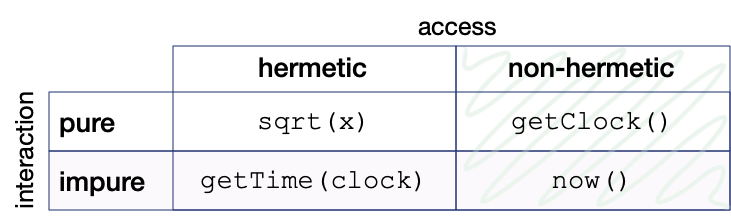
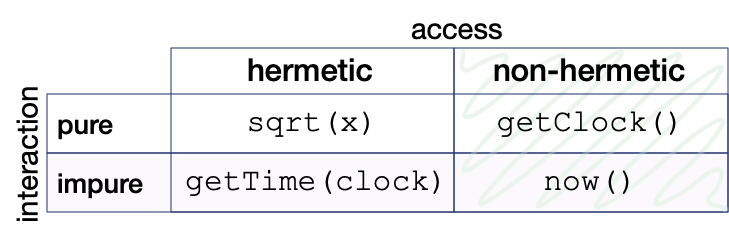
some edits

diff --git a/content/language-design/hermeticity/todos.md b/content/language-design/hermeticity/todos.md
@@ -1,10 +1,63 @@
-Joe-E is actually hermetic?
+Weak: To see what hermeticity implies for packages, libraries, and language design, we need a more precise vocabulary for how functions expose access to state.
+
+
+update def of purity
+
+    consistency with I and we
+
+
+hermetic functions property
+    if f and g are hermetic, f comp g is hermetic
+
+    f(x) is impure if x is live
+    x is live if exists hermetic f such that f(x) that is impure
+    g is not hermetic if f is hermetic and f \dot g is impure
+
+    The implementation of a pure function may 1) allocate new temporary state 2) call impure functions **as long as they are hermetic**.
+
+
+
+Property F: Access-Controlled Delegation Channels
+
+
+
+deepfrozen in addition to REadonly
+
+go example constructor
+
+
+Immutable -- Mutable is therefore Live is therefore a Capabiliy
+
+constructors
+
+
+
+---
+
+E's deep frozen
+
+
+Joe-E paper:
+    A hermetic function with no live parameters is pure
+    add this to our "hermetic functions compose?"
+
+hermetic main
+    is not necessarily immutable
+
+Functions can be inert and thus Immutable
+    another argument against Immutable as the term.
+
+can tell purity off the function signature
+
+
+----
+
+
+----
 
 Write to the Joe-E Guy
 
 Mention static member functions somewhere!
-
-
 
 Another contact is David Wagner at UC Berkeley. He's the one that used the term "Universal Scope". 
     https://people.eecs.berkeley.edu/~daw/talks/TRUST07.pdf
@@ -25,18 +78,11 @@ Where I say we could also expose state by grafting, the problem with that is we'
 
 
 bring back sans-io.
-
-
-
 use cap-std instead of rust as example.
-
 
 A function cannot amplify authority because it has no authority except what was passed in.
 
 (e.g., how it differs from Wuffs' hermeticity or Agoric's ocap) could be deeper—Appendix A starts this but doesn't contrast enough.
-
-"effects wihtout implicit side effects"
-
 
 
 Robust composition paper in footnotes three times.  
@@ -67,7 +113,6 @@ In many Object capability (ocap)[^ocap] languages, "no ambient authority" implie
 
 ----
 
-Property F: Access-Controlled Delegation Channels
 
 attenuation
 
@@ -103,13 +148,6 @@ inert ambient scope -- deref operator
 
 
 ----
-
-    consistency with I and we
-
-    The implementation of a pure function may 1) allocate new temporary state 2) call impure functions **as long as they are hermetic**.
-
-    test: if you can compose with hermetic function to get impure function
-
 
 
 

diff --git a/content/language-design/hermeticity/index.md b/content/language-design/hermeticity/index.md
@@ -141,7 +141,7 @@ So hermeticity is more strict than purity in some ways, and less in others. A he
 In a pure programming language, the main function cannot interact with state. In a hermetic programming language, it cannot access un-parameterized state. This has implications for the design of packages, standard libraries, and the language itself.
 -->
 
-To see what this implies for packages, libraries, and language design, we need a more precise vocabulary for how functions expose access to state.
+Now, to understand the benefits of programming with hermetic functions and its implications for the design of libraries and programming languages, we first need a more precise vocabulary for how functions expose access to state.
 
 <style>
 .glossary {
@@ -354,7 +354,7 @@ One of the core ideas of capability-based security is the elimination of **ambie
 
 ### Live Values are Capabilities
 
-Since a hermetic function by definition may access existing state only through its parameters, it follows that access to existing state cannot be obtained by forging references. Receiving a live parameter must be the only way a function can obtain authority.
+Since a hermetic function by definition may access existing state only through its parameters, it follows that access to existing state cannot be obtained by forging references. Receiving a live parameter must be the only way a function can obtain authority over existing state.
 
 <!--
 Authority therefore flows explicitly, and designation without authority is powerless: a path, URL, or identifier grants nothing unless paired with a live value that already carries the relevant authority.
@@ -366,7 +366,7 @@ Authority therefore flows explicitly, and designation without authority is power
 
 “Ambient authority” may sometimes be taken to mean only ambient access to system resources. But if a function can communicate through a pre-existing channel, or write a live value into existing mutable state for later retrieval, then authority can flow between calls without appearing in the signature.
 
-A hermetic programming language rules that out by eliminating ambient authority to *any existing state* (anything that could make a function impure). A hermetic function can communicate only through channels provided by the caller, and it is memoryless across calls unless state is explicitly passed in. If a function is never given the authority to write a capability into existing state (a way of exposing state we call [grafting](#grafting-state)), then authority it receives remains **overtly confined** to that unit of work and is automatically **revoked** once the function finishes its work.
+A hermetic programming language rules that out by eliminating ambient authority to *any existing state* (anything that could make a function impure). A hermetic function does not have it own memory; it can only delegate authority through channels explicitly provided by the caller[^propf]. If a function is never given the authority to write a capability into existing state (a way of exposing state we call [grafting](#grafting-state)), then authority it receives remains **overtly confined**[^confinement] to that unit of work and is automatically **revoked**[^revocation] once the function finishes its work.
 
 These are not extra security mechanisms: they follow from the core semantics of hermetic functions.
 
@@ -374,7 +374,7 @@ These are not extra security mechanisms: they follow from the core semantics of 
 
 Eliminating *ambient authority* does not prevent programmers from granting *too much authority*. If `main(world)` is injected with an object containing `world.clock`, `world.fs`, `world.net`, and so on, it can still pass that "god object" down through the call stack. This may still be hermetic but it is poor security hygiene.
 
-The **principle of least authority** (POLA)[^protection] dictates that `main` should ask for—and the host should grant—only the capabilities the program actually needs. In a hermetic language, the signature of the program's main function acts as a dependency manifest, and capability-oriented interface standard such as WASI[^wasi] can be used as a portable vocabulary for expressing those dependencies.
+The **principle of least authority** (POLA)[^protection] dictates that `main` should ask for—and the host should grant—only the capabilities the program actually needs. In a hermetic language, the signature of the program's main function acts as a dependency manifest, and capability-oriented interface standards such as WASI[^wasi] can be used as a portable vocabulary for expressing those dependencies.
 
 POLA also requires **attenuating** capabilities before passing them onward[^attenuate]: pass a single file handle instead of the whole filesystem, and make it read-only if possible.
 
@@ -398,7 +398,7 @@ Although a hermetic programming language has no ambient authority, the converse 
 
 Another way a capability-secure language can introduce authority is through **ambient endowment**. For example, SES compartments have no ambient authority by default, but the host can endow them with live globals or modules[^ses]. WASI likewise provisions capabilities through imports[^wasi]. In both cases, authority is supplied by the host through ambient names rather than through function parameters.
 
-On the other hand, in Joe-E, explicitly propagated references are the only things that convey authority; *the universal scope provides no authority*.[^trust07] This maps closely to what I call an **inert ambient scope**. In that sense, Joe-E can be classified as a hermetic programming language.
+On the other hand, in Joe-E, explicitly propagated references are the only things that convey authority; *the universal scope provides no authority*.[^joe-e][^trust07] This maps closely to what I call an **inert ambient scope**. In that sense, Joe-E can be classified as a hermetic programming language.
 
 > Hermeticity is not simply a restatement of “no ambient authority”.
 
@@ -419,7 +419,7 @@ main :: IO ()
 main = putStrLn "Hello, World!"
 ```
 
-Here, `main` is a pure value. But it is live in our sense because it is already committed to the real console, rather than receiving console access as a parameter. It already embodies authority to interact with existing state.
+Here, `main` is a pure value. But it is live in our sense because it is already committed to the real console instead of receiving console access as a parameter. It already embodies authority to interact with existing state.
 
 > Pure does not imply inert.
 
@@ -434,7 +434,7 @@ alt="Figure 5. Illustration of a Hello, World! program where main is live becaus
 
 </div>
 
-`putStrLn` is also live by the [mockability test](#appendix-d-the-mockability-test) (as trivially is `main`): it could be replaced by a function with the same type that redirects console writes to an in-memory buffer, without otherwise changing observable program behavior.
+`putStrLn` is also live by the [mockability test](#appendix-d-the-mockability-test): it could be replaced by a function with the same type that redirects console writes to an in-memory buffer, without otherwise changing observable program behavior.
 
 ### The Hermetic Alternative
 
@@ -448,9 +448,7 @@ hermeticMain :: Console m => m ()
 hermeticMain = putLine "Hello, World!"
 ```
 
-`hermeticMain` does not assume a particular console and does not commit to `IO`. The caller chooses which `m` to supply, including an in-memory mock. Access to the console is routed through an injected capability.
-
-A concrete caller can then wire `hermeticMain` to the real console through a live `Console IO` instance:
+`hermeticMain` does not assume a particular console and does not commit to `IO`. The caller can supply either an in-memory mock or the real console through a live `Console IO` instance:
 
 ```haskell
 instance Console IO where
@@ -476,11 +474,11 @@ When we think of "pure" data, we may imagine something cleanly serializable into
 
 **Hermeticity is inertness applied to functions.** A hermetic function may not be pure, but it is pure functionality. Since it cannot access state directly, it must be plugged into live parameters to do anything in the world.
 
-The inert/live distinction applies even in pure functional languages. Inert/live and pure/impure are independent axes of "clean". Hermetic and functional programming are complimentary.
+The inert/live distinction applies even in pure functional languages. Inert/live and pure/impure are independent axes of "clean". Hermetic and functional programming are complementary.
 
 Making a programming language hermetic is straightforward in principle: keep the ambient scope inert, export interfaces instead of live values from standard libraries, and inject concrete resources into the main function. Contexts or implicits can manage the extra wiring.
 
-Parameterizing access to state carves programs at the joints. All hermetic functions are decoupled from state, testable against mocks, portable, and composable. Function signatures are dependency manifests. All authority is explicit.
+Parameterizing access to state carves programs at the joints. All hermetic functions are decoupled from free state, testable against mocks, portable, and composable. Function signatures are dependency manifests. All authority is explicit.
 
 We should look back at global singletons or `import fs` granting immediate, permissions-based disk access with the same horror we feel for `goto`. The next generation of programming languages should be hermetic.
 
@@ -658,7 +656,7 @@ It follows that in a hermetic programming language, exported types must be herme
 
 [^ocap]: Object-capability (ocap) languages enforce capability discipline at the language level: references are unforgeable, there is no ambient authority, and the only way to obtain a capability is to be given one. Examples include E, Monte, Pony, Wyvern, and Agoric's SES (Secure EcmaScript) in Hardened JavaScript. See Mark S. Miller, *Robust Composition: Towards a Unified Approach to Access Control and Concurrency Control* (PhD thesis, Johns Hopkins University, 2006). [PDF](https://www.erights.org/talks/thesis/markm-thesis.pdf); E language: [erights.org](https://erights.org); Monte: [monte.readthedocs.io](https://monte.readthedocs.io).
 
-[^capmyths]: The terms *ambient authority* and *capability* are formalized in the object-capability literature. See Ka-Ping Yee, Mark S. Miller, and Jonathan Shapiro, *Capability Myths Demolished* (Systems Research Laboratory Technical Report SRL2003-02, Johns Hopkins University, 2003). [PDF](https://srl.cs.jhu.edu/pubs/SRL2003-02.pdf)
+[^capmyths]: The term *ambient authority* is formalized in the object-capability literature. See Ka-Ping Yee, Mark S. Miller, and Jonathan Shapiro, *Capability Myths Demolished* (Systems Research Laboratory Technical Report SRL2003-02, Johns Hopkins University, 2003). [PDF](https://srl.cs.jhu.edu/pubs/SRL2003-02.pdf)
 
 [^bufconn]: The `bufconn` package provides an in-memory `net.Listener` implementation for testing gRPC services without real network I/O. [link](https://pkg.go.dev/google.golang.org/grpc/test/bufconn)
 
@@ -727,3 +725,9 @@ It follows that in a hermetic programming language, exported types must be herme
 [^hermetic-http]: For example, Go’s `net/http` package provides `http.Serve`, which accesses the network through a passed-in `net.Listener`; this can be substituted with an in-memory implementation such as gRPC’s `bufconn`.[^bufconn] Rust’s `cap_std` similarly routes filesystem and networking access through capability values such as `Dir` and `Pool`.[^capstd] In Python, sans-I/O libraries such as `hyper-h2` go further by factoring all external I/O out of the library entirely.[^sansio]
 
 [^mint]: A hermetic function can expose fresh state that it allocates during the call. We call this minting state. See Appendix C.
+
+[^confinement]: The classic **confinement problem** is to ensure that a program cannot transmit information except through authorized channels. See Butler W. Lampson, *A Note on the Confinement Problem* (Communications of the ACM, 1973). [PDF](https://www.cs.cornell.edu/andru/cs711/2003fa/reading/lampson73note.pdf)
+
+[^revocation]: Revocation is a standard topic in capability security and is not incompatible with capability discipline. See Ka-Ping Yee, Mark S. Miller, and Jonathan Shapiro, *Capability Myths Demolished* (Systems Research Laboratory Technical Report SRL2003-02, Johns Hopkins University, 2003), especially the discussion of the **Irrevocability Myth**. [PDF](https://srl.cs.jhu.edu/pubs/SRL2003-02.pdf)
+
+[^propf]: Miller, Yee, and Shapiro identify **Property F: Access-Controlled Delegation Channels** as one of the distinguishing properties of object-capability systems: delegation requires an existing access relationship between delegator and recipient, so authority flows only along channels that are themselves access-controlled. See Ka-Ping Yee, Mark S. Miller, and Jonathan Shapiro, *Capability Myths Demolished* (Systems Research Laboratory Technical Report SRL2003-02, Johns Hopkins University, 2003). [PDF](https://srl.cs.jhu.edu/pubs/SRL2003-02.pdf)

diff --git a/content/language-design/hermeticity/abstract.md b/content/language-design/hermeticity/abstract.md
@@ -1,5 +1,5 @@
 ---
 abstract: |
-  Most programming languages allow any function to access ambient state—globals, system calls, built-in functions—undermining local reasoning, testability, and security. Several programming traditions help discipline access to state. Functional programming forbids interaction with state during evaluation; dependency injection makes dependencies on stateful resources explicit; and object-capability security requires authority over state to flow through explicit references. This essay identifies a **semantic property of functions** underlying both dependency injection and explicit authority flow: functions access existing state only through their parameters. I propose the term **hermeticity** for this property. Hermeticity is orthogonal to purity. Where purity restricts interaction with state, hermeticity restricts access. That is why inversion of control and capability security remain relevant even in purely functional languages: a function can be pure yet still be hard-wired to ambient authority. Like purity, hermeticity can also be lifted to the language level, turning inversion of control and explicit authority flow into language properties—even in languages that are already purely functional. This essay argues that hermeticity deserves to stand alongside purity because it captures a broad family of benefits—local reasoning, mock-based testing, portability, and explicit authority flow—with a simple semantic rule.
+  Most programming languages allow any function to access ambient state—globals, system calls, built-in functions—undermining local reasoning, testability, and security. Several programming traditions help discipline access to state. Functional programming forbids interaction with state during evaluation; dependency injection makes dependencies on stateful resources explicit; and object-capability security requires authority over state to flow through explicit references. This essay identifies a **semantic property of functions** underlying both dependency injection and explicit authority flow: functions access existing state only through their parameters. I propose the term **hermeticity** for this property. Hermeticity is orthogonal to purity. Where purity restricts interaction with state, hermeticity restricts access. That is why inversion of control and capability security remain relevant even in purely functional languages: a function can be pure yet still be hard-wired to ambient authority. Like purity, hermeticity can also be lifted to the language level, turning inversion of control and explicit authority flow into language properties—even in languages that are already purely functional. This essay argues that hermeticity deserves to stand alongside purity because it captures a broad family of benefits—local reasoning, mock-based testing, portability, and security—with a simple semantic rule.
 
 ---